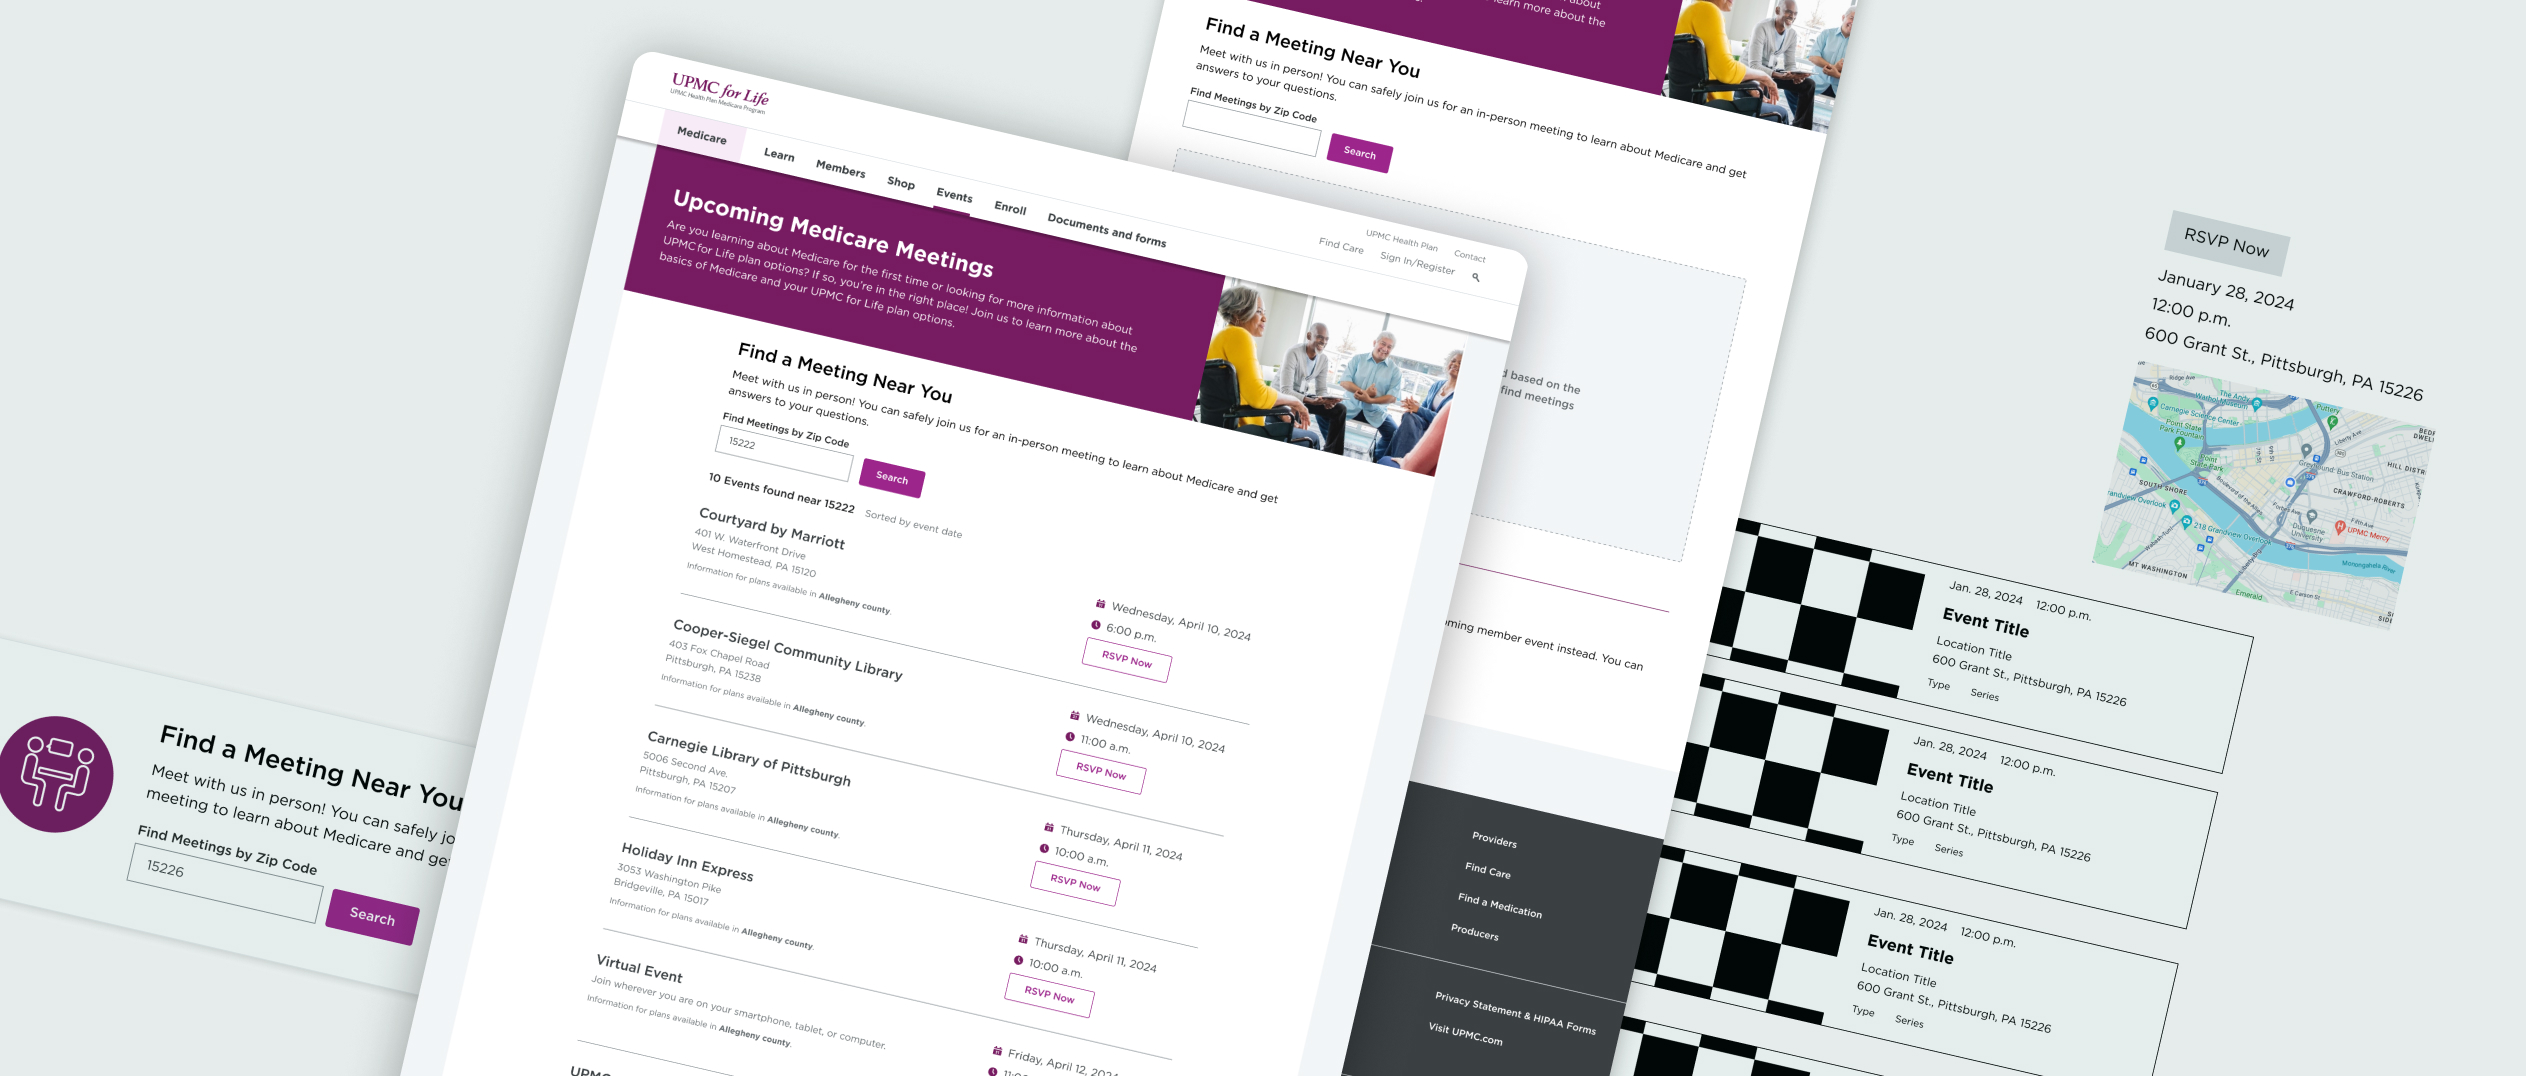
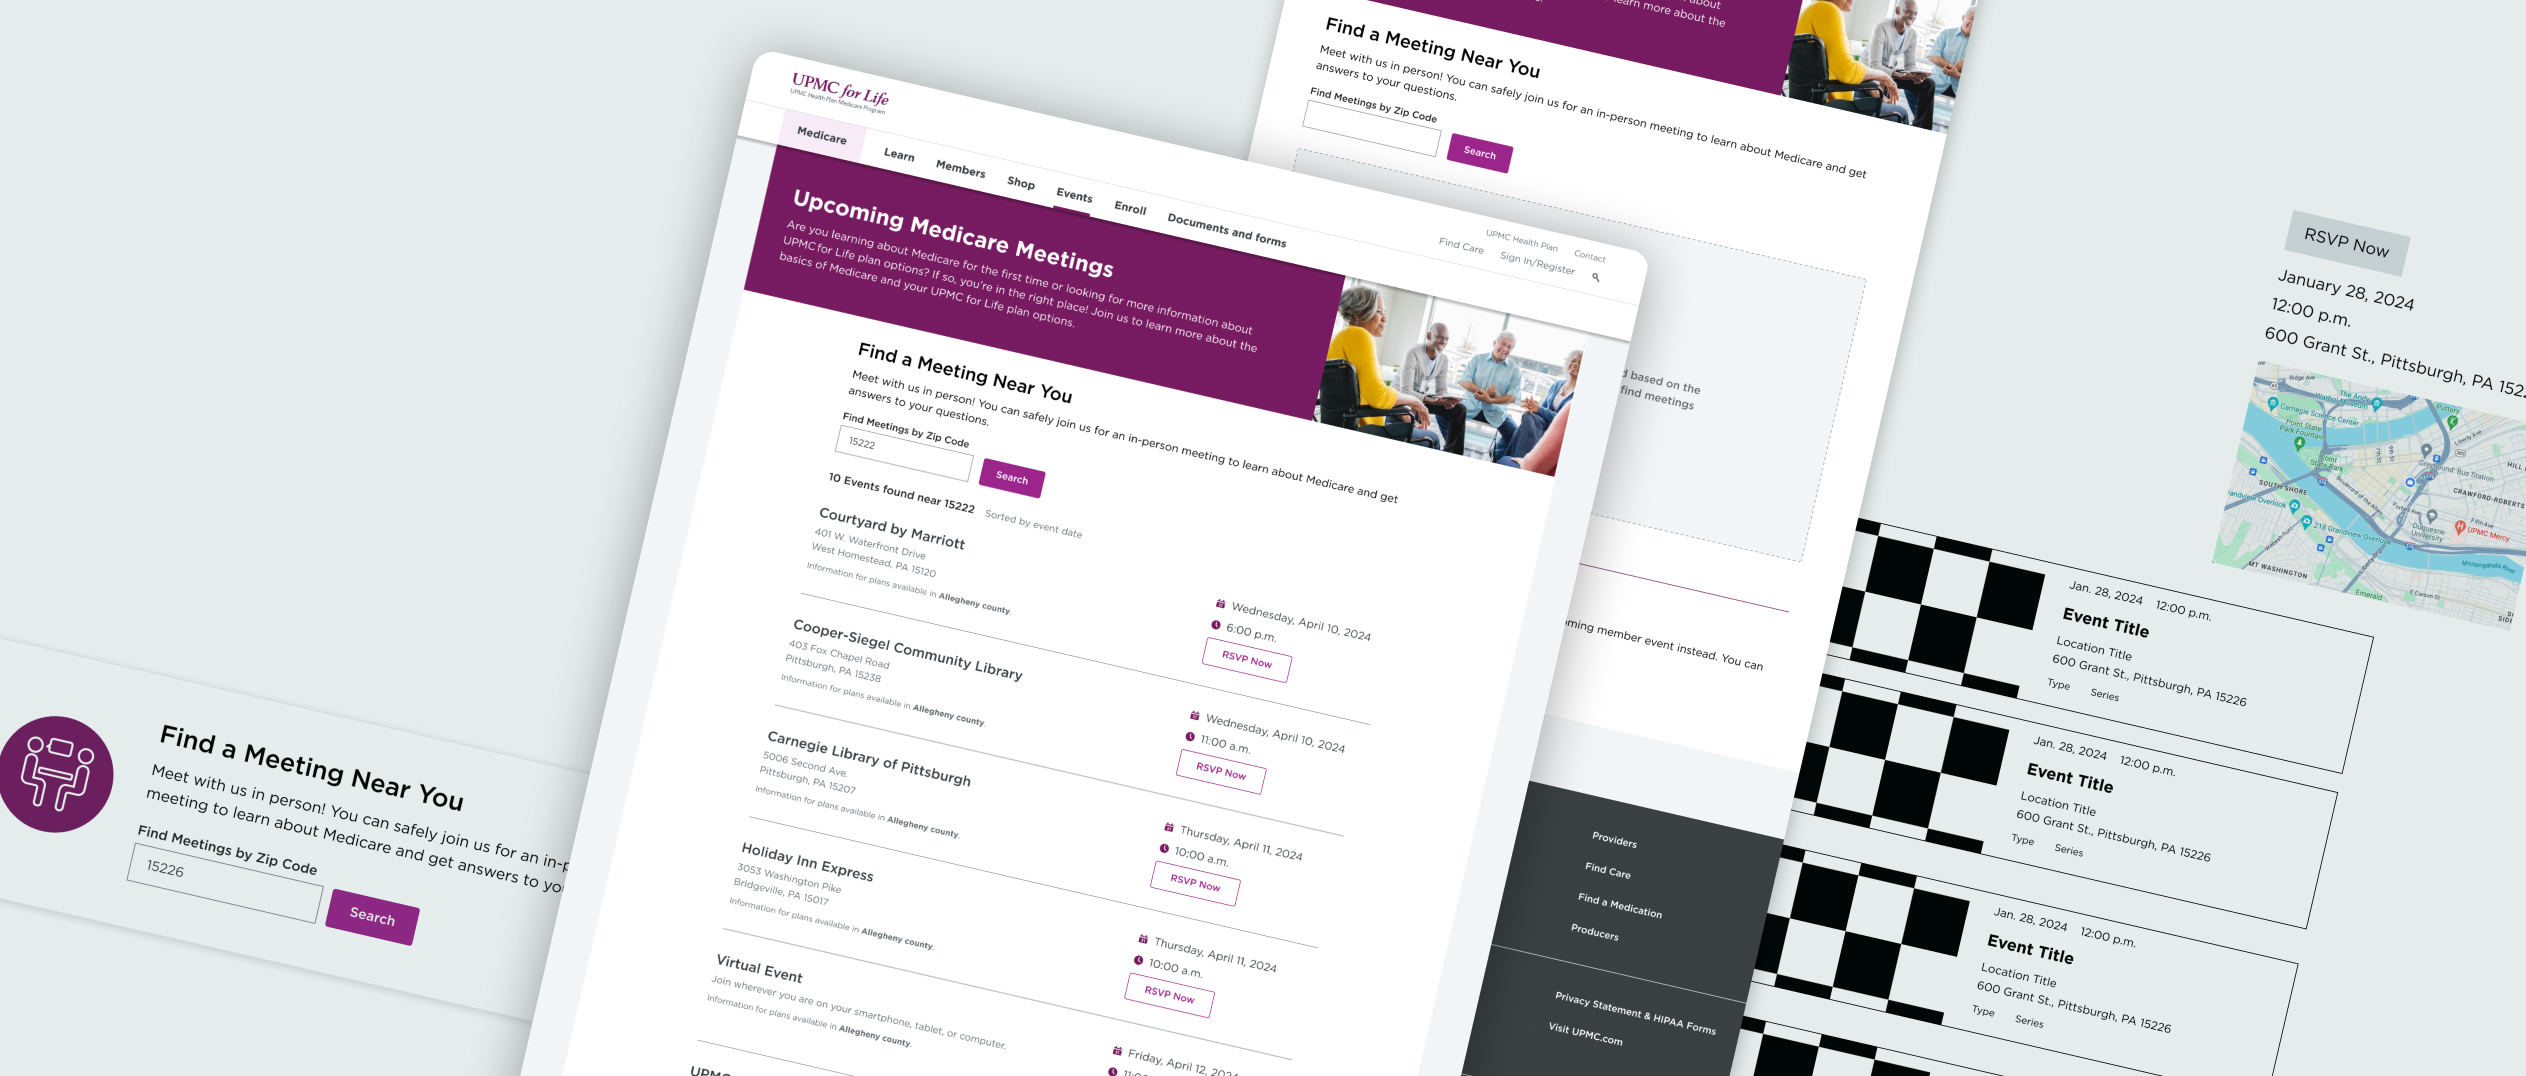
events content, wellness images

diff --git a/pages/index.js b/pages/index.js
@@ -61,6 +61,19 @@ export default function Home({ allPostsData }) {
           experiences that are accessible, intuitive, and user-friendly.
         </p>
         <TableList
+          color='mustard'
+          header='Design Skills'
+          items={[
+            'UI/Visual Design',
+            'Design Systems',
+            'Web Design',
+            'Email Design',
+            'Social and Display Ads',
+            'Figma',
+            'Adobe Suite',
+          ]}
+        />
+        <TableList
           color='pink'
           header='Front End Skills'
           items={[
@@ -72,19 +85,6 @@ export default function Home({ allPostsData }) {
             'Accessibility',
             'SVG',
             'HTML Emails',
-          ]}
-        />
-        <TableList
-          color='mustard'
-          header='Design Skills'
-          items={[
-            'UI/Visual Design',
-            'Design Systems',
-            'Web Design',
-            'Email Design',
-            'Social and Display Ads',
-            'Figma',
-            'Adobe Suite',
           ]}
         />
       </section>

diff --git a/posts/2-wellness.md b/posts/2-wellness.md
@@ -3,7 +3,7 @@ title: 'Wellness Campaigns'
 description: 'A series of three campaigns to support members physical and mental health: <a href="https://www.upmchealthplan.com/weightrace">Weight Race</a>, <a href="https://www.upmchealthplan.com/findyourfitness">Find Your Fitness</a>, and <a href="https://www.upmchealthplan.com/roadtoresilience">Road to Resilience</a>. Each campaign runs over a specific 12 or 4 week period, delivering a new content topic every week. I designed and developed templated micro sites to make it easier to swap out the creative design and content for each campaign, but keep the general structure and logic reusable across the three campaigns and for each annual refresh. The sites were built with Gatsby and used Sanity for Content Management.'
 link: 'https://www.upmchealthplan.com/weightrace'
 image: '/images/findYourFitness.svg'
-introImage: '/images/findYourFitness.svg'
+introImage: 'wellness'
 intro: 'This collection of websites serves as a content hub for participants engaged in wellness programs. Weekly, participants have the opportunity to tailor their wellness journey by selecting from available content topics. These websites, complemented by an effective email campaign, not only foster user engagement but also provide a platform for enriching well-being.'
 tags:
   - 'React'

diff --git a/posts/1-events.md b/posts/1-events.md
@@ -1,7 +1,7 @@
 ---
 title: 'Community Events'
-description: 'Medicare members and prospective members needed an easy to use experience to find events near them to attend.'
-image: '/images/events-intro.jpg'
+description: 'Tasked with updating how Medicare members find events and meetings, we delved into a redesign process. Our journey, from discovery research to prototype testing, showcases how user-centric design can address accessibility challenges and enhance digital experiences for older adults.'
+image: '/images/events-icon.svg'
 link: ''
 introImage: 'events'
 intro: "How do you turn a clunky, map-based event finder into a sleek, user-friendly platform for Medicare members? This case study walks through our team's journey of research, design, and testing to revolutionize the way older adults discover and engage with healthcare events and meetings."
@@ -20,7 +20,7 @@ The previous experience for Medicare members and prospects to find events and me
     <figcaption>The previous event discovery experience that was map based. Events would appear as pin drops on the embedded Google Map.</figcaption>
 </figure>
 
-## Research
+## Research and Discovery
 
 To inform the research, we compiled a list of important questions.
 

diff --git a/posts/3-svg-map.md b/posts/3-svg-map.md
@@ -1,6 +1,6 @@
 ---
 title: 'SVG Map Generator'
-description: 'A user-friendly web app developed at UPMC Health Plan, enabling effortless creation of SVG-based maps to communicate insurance plans and coverage options across Pennsylvania. Its iterative development provided multi-category support, increased accessibility, and time-saving benefits for designers, product managers, and more.'
+description: 'A utility I developed that enabled effortless creation of SVG-based maps of the state of Pennsylvania to communicate insurance coverage availability. Its iterative development provided multi-category support, increased accessibility, and time-saving benefits.'
 link: 'https://friendly-bubblegum-837166.netlify.app'
 image: '/images/map-generator.svg'
 intro: 'A React application that enables non-technical team members to create SVG coverage maps. Its intuitive interface and iterative improvements made it a valuable time-saving tool for various team members, while enhancing accessibility for all users.'

diff --git a/posts/1-gif.md b/posts/1-gif.md
@@ -1,6 +1,6 @@
 ---
 title: 'GIFsearch'
-description: 'I built this project while learning Angular and TypeScript. It utilizes the Giphy Search API to display gifs based on user provided keywords. My favorite feature is related to accessibility, the gif playback pauses according to the users prefers-reduced-motion settings.'
+description: "A gif search app I built while learning more about Angular and TypeScript. The Giphy Search API is used to fetch gifs based on the user's search. Paying close attention to accessibility, gif playback pauses according to the users prefers-reduced-motion settings."
 image: '/images/GIFsearch.svg'
 link: 'https://verdant-entremet-0d54ae.netlify.app/'
 introImage: 'gif'
